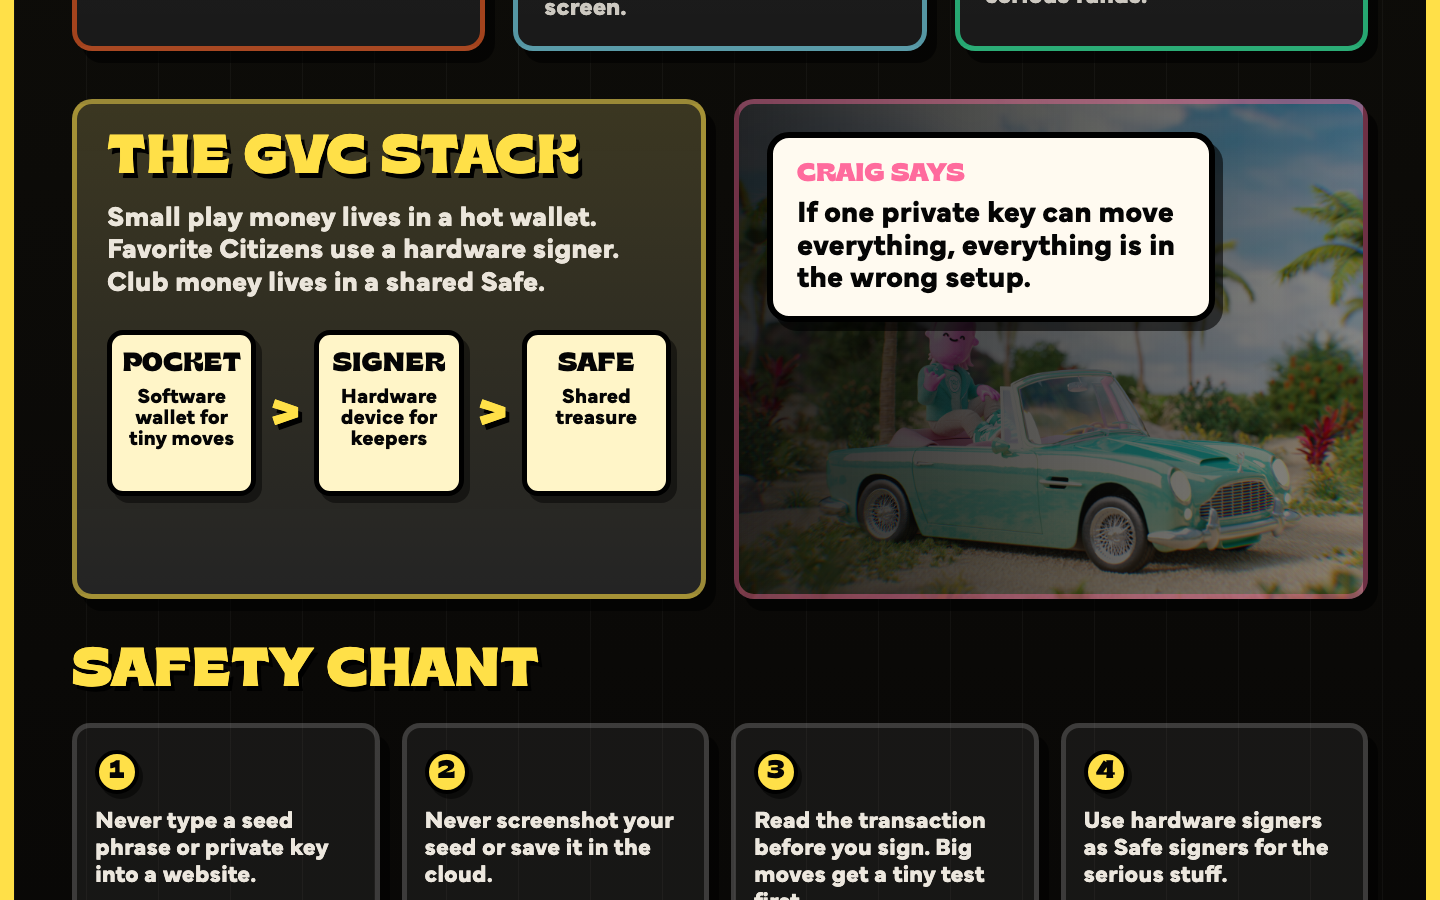
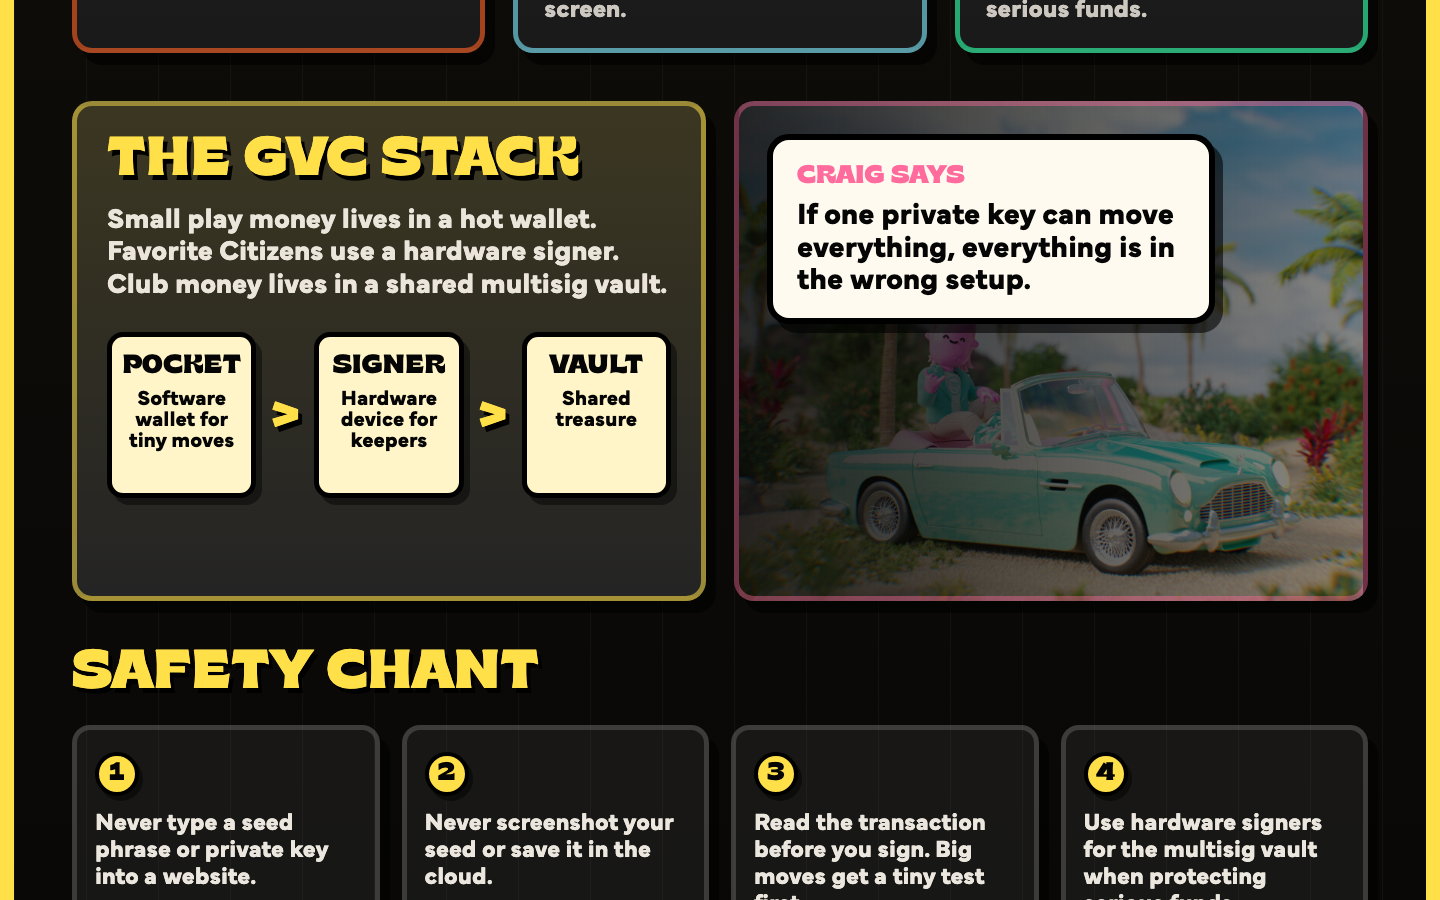
Update self-custody infographic labels

diff --git a/output/gvc-self-custody-infographic/infographic.html b/output/gvc-self-custody-infographic/infographic.html
@@ -340,6 +340,35 @@
       box-shadow: 5px 6px 0 rgba(0, 0, 0, 0.45);
     }
 
+    .wallet-card h3.not-for {
+      display: inline-flex;
+      align-items: center;
+      gap: 9px;
+    }
+
+    .prohibition-mark {
+      position: relative;
+      width: 27px;
+      height: 27px;
+      flex: 0 0 27px;
+      border: 4px solid #e51b23;
+      border-radius: 50%;
+      background: var(--cream);
+    }
+
+    .prohibition-mark::after {
+      content: "";
+      position: absolute;
+      left: 1px;
+      top: 8px;
+      width: 18px;
+      height: 4px;
+      border-radius: 999px;
+      background: #e51b23;
+      transform: rotate(-45deg);
+      transform-origin: center;
+    }
+
     .wallet-card ul {
       margin: 0;
       padding: 0;
@@ -645,7 +674,7 @@
               <li>Low-risk mints</li>
               <li>Burner activity</li>
             </ul>
-            <h3>Not for</h3>
+            <h3 class="not-for"><span class="prohibition-mark" aria-hidden="true"></span>Not for</h3>
             <p class="tiny-note">Your best GVCs, big ETH, team money, or long-term savings.</p>
             <h3>Rule</h3>
             <p class="tiny-note">Keep it small. If a link feels weird, use a fresh wallet.</p>
@@ -665,9 +694,9 @@
               <li>Main GVCs and NFTs</li>
               <li>Long-term ETH or tokens</li>
               <li>Important signatures</li>
-              <li>Signing for a Safe</li>
+              <li>Signing for a multisig vault</li>
             </ul>
-            <h3>Not for</h3>
+            <h3 class="not-for"><span class="prohibition-mark" aria-hidden="true"></span>Not for</h3>
             <p class="tiny-note">Fast clicking on risky sites or typing the seed into a computer.</p>
             <h3>Rule</h3>
             <p class="tiny-note">Write the seed on paper or metal. Confirm on the device screen.</p>
@@ -681,8 +710,8 @@
               <circle cx="25" cy="35" r="5" fill="#000" />
               <circle cx="75" cy="35" r="5" fill="#000" />
             </svg>
-            <h3 class="wallet-title">Gnosis Safe</h3>
-            <p class="wallet-subtitle">Now Safe{Wallet}. A smart wallet shared by signers, like a chest that needs 2-of-3 approvals.</p>
+            <h3 class="wallet-title">Multisig Vault</h3>
+            <p class="wallet-subtitle">A smart wallet shared by signers, like a chest that needs 2-of-3 approvals.</p>
             <h3>Use for</h3>
             <ul>
               <li>Team or DAO treasury</li>
@@ -690,7 +719,7 @@
               <li>Very valuable assets</li>
               <li>Multi-person approvals</li>
             </ul>
-            <h3>Not for</h3>
+            <h3 class="not-for"><span class="prohibition-mark" aria-hidden="true"></span>Not for</h3>
             <p class="tiny-note">Tiny quick buys, or apps/chains you have not checked first.</p>
             <h3>Rule</h3>
             <p class="tiny-note">Use multiple signer wallets, ideally hardware signers, for serious funds.</p>
@@ -701,7 +730,7 @@
       <section class="stack">
         <article class="stack-card stack-left">
           <h2 class="section-title">The GVC stack</h2>
-          <p>Small play money lives in a hot wallet. Favorite Citizens use a hardware signer. Club money lives in a shared Safe.</p>
+          <p>Small play money lives in a hot wallet. Favorite Citizens use a hardware signer. Club money lives in a shared multisig vault.</p>
           <div class="path">
             <div class="path-step">
               <strong>Pocket</strong>
@@ -714,7 +743,7 @@
             </div>
             <div class="arrow">></div>
             <div class="path-step">
-              <strong>Safe</strong>
+              <strong>Vault</strong>
               <span>Shared treasure</span>
             </div>
           </div>
@@ -745,7 +774,7 @@
           </article>
           <article class="rule-card">
             <span class="rule-number">4</span>
-            <p>Use hardware signers as Safe signers for the serious stuff.</p>
+            <p>Use hardware signers for the multisig vault when protecting serious funds.</p>
           </article>
         </div>
       </section>
